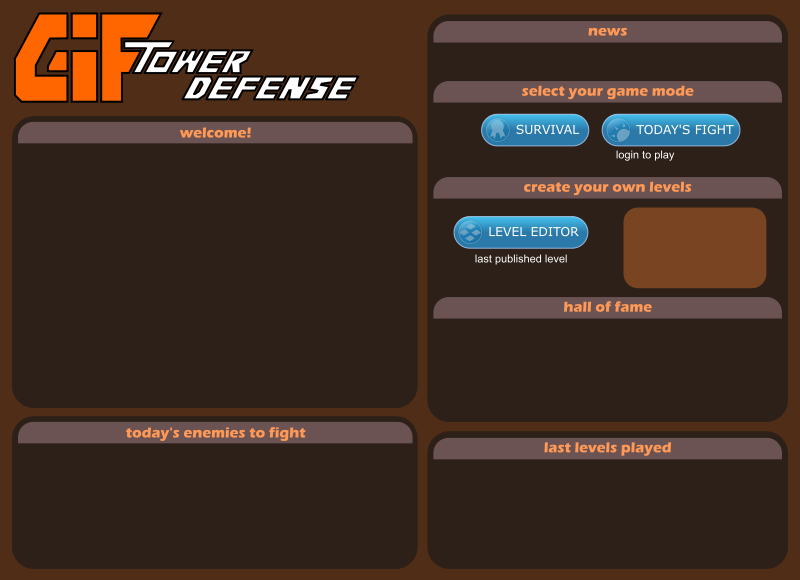
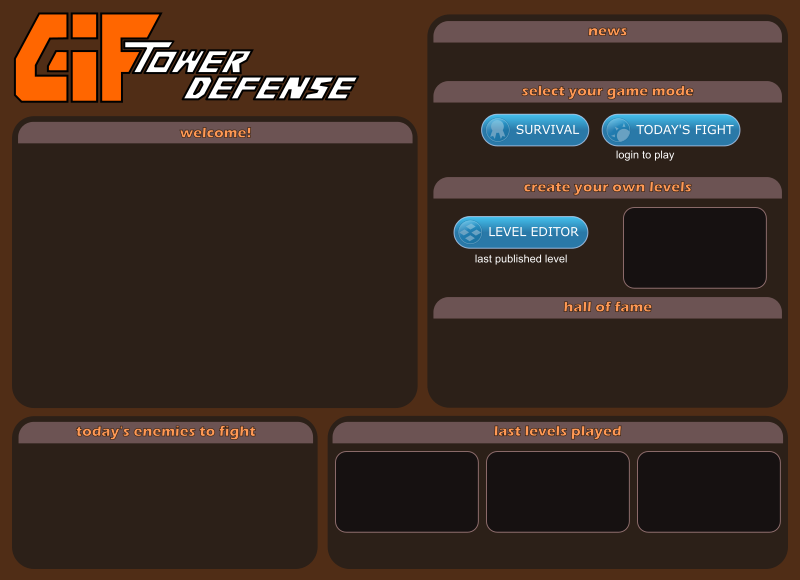
redesign the menu and display the minimaps for the last three levels played

diff --git a/src/Menu.ts b/src/Menu.ts
@@ -27,9 +27,9 @@ export class Menu {
     )
     this.#minimapEditor = new MiniMap({ x: 637, y: 200 })
 
-    this.#minimapLastPlayed1 = new MiniMap({ x: 430, y: 468 })
-    this.#minimapLastPlayed2 = new MiniMap({ x: 555, y: 468 })
-    this.#minimapLastPlayed3 = new MiniMap({ x: 680, y: 468 })
+    this.#minimapLastPlayed1 = new MiniMap({ x: 350, y: 445 })
+    this.#minimapLastPlayed2 = new MiniMap({ x: 500, y: 445 })
+    this.#minimapLastPlayed3 = new MiniMap({ x: 650, y: 445 })
     // assign the singleton instance
     Menu.#instance = this
   }
